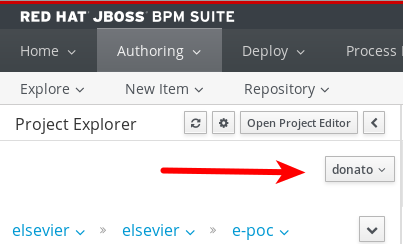
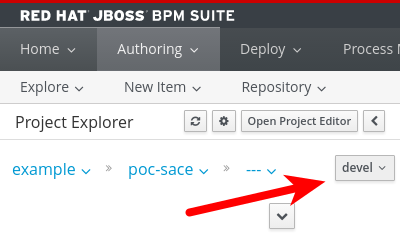
many updates install and conding tips

diff --git a/install.md b/install.md
@@ -8,10 +8,36 @@ Launch:
 
     $ java -jar jboss-brms-6.3.0.GA-installer.jar
     
+### Installing on EAP 7
+
+- Download the deployable for EAP7
+- extract it
+- copy the content to the EAP7 home
+- add the users
+
+        ./add-user.sh -a -u bpmsAdmin -p password
+    
+- add the roles
+- listen all interface:
+
+    - add the interface:
+
+            <interfaces>  
+          
+               <!-- Equivalent of -b 0.0.0.0 -->  
+          
+                  <interface name="any">  
+                       <any-address/>  
+                  </interface>  
+            </interfaces>  
+
+    - add the binding
+        <socket-binding-group name="standard-sockets" default-interface="any" ...
+
+
+
 
 ## Users
-jbpm
-Admin123$
 
 To add a user use the EAP command line:
 
@@ -26,8 +52,10 @@ Roles are defined in the following file:
     ~/EAP-6.4.0/standalone/configuration/application-roles.properties
 
 
-### Example Roles
-    admin=admin,analyst,user,kie-server,rest-all
+### Roles
+
+    bpmsAdmin=admin,developer,analyst,user,manager,kie-server,rest-all,Administrators
+
 
 ### Assigning role to projects
 
@@ -133,21 +161,69 @@ Here some basic information to cluster the kie-server:
 
 
 # Problems 
-## the workbench does not load
+## Cannot login in Business Central (workbench)
 
-http://stackoverflow.com/questions/137212/how-to-solve-performance-problem-with-java-securerandom
+Create a new file `/standalone/deployments/business-central.war/WEB-INF/classes/ErraiService.properties` with the following content:
+
+    errai.bus.enable_sse_support=false
 
 add in `standalone.conf` the following line:
 
     JAVA_OPTS="$JAVA_OPTS -Djava.security.egd=file:/dev/./urandom"
 
+If the problem persist, try to disable the workstation antivirus.
+
+Reference:
+
+[https://access.redhat.com/solutions/1183473]()
+
+## How to access maven repository?
+
+Add username/password in `~/.m2/settings.xml`
+
+    <server>
+      <id>guvnor-m2-repo</id>
+      <username>admin</username>
+      <password>admin</password>
+      <configuration>
+        <wagonProvider>httpclient</wagonProvider>
+        <httpConfiguration>
+          <all>
+            <usePreemptive>true</usePreemptive>
+          </all>
+        </httpConfiguration>
+      </configuration>
+    </server>
+    
+Reference:
+[https://access.redhat.com/solutions/703423]()
+
+## Internal git ssh
+
+to connect to an external ssh?
+
+    org.uberfire.nio.git.ssh.cert.dir 
+
+default working dir 
+
+then .security
+
+there sha_id?
+
+Configure the passphrase
+
+    org.uberfire.nio.git.ssh.passphrase
 
 ## Internal git is not accessible
 
 Look for the <system-properties> tag and add the following:
 
-    <property name="org.uberfire.nio.git.daemon.host" value="yourserverdomain"/>
     <property name="org.uberfire.nio.git.ssh.host" value="yourserverdomain"/>
+
+Not sure if the following is useful:
+
+    <property name="org.uberfire.nio.git.daemon.host" value="yourserverdomain"/>
+
 
 ## Internal git offer ssh-dss
 Issue https://issues.jboss.org/browse/RHBRMS-243

diff --git a/git_workflow.md b/git_workflow.md
@@ -9,7 +9,7 @@ There are two options:
 1. each developers has his own instance of Business Central in his/her own workstation;
 2. the Business Central is shared on a development server, but each developer has to work on his/her own branch. In this case, developers have to pay attention to stay on their own branch, when they perform any change.
 
-The Business Central (BC) repository has the role of a sandbox, where many commits are meaningless. It's worth mentioning that the BC performs a git commit every time a developer saves an artefact.
+The Business Central (BC) repository has the role of a sandbox, where many commits are meaningless. It's worth mentioning that the BC performs a git commit every time a developer saves an artefact. Conversely, a developer should __commit__ a group of artefacts when they are consistent, usually when he implement a new feature, he can build the code and has performed a first test.
 
 The team shares the consolidated work in a shared git repository, let's call it "team" (_blessed repository_ Ref. [Distributed Git - Distributed Workflows](https://git-scm.com/book/en/v2/Distributed-Git-Distributed-Workflows)).
 
@@ -134,11 +134,11 @@ Other developer should create the repository in their Business Central environme
     $ git push origin <dev2_branch>
     ```
 
-    If you find problem pushing, you can try the *force* option: `git push --all -f`
+    If you find problem pushing, you can try the *force* option: `git push -f origin <dev2_branch>`
 
 5. Restart the BPMS in order to reload the new repository structure
 
-6. In the BC select your own branch ("donato" in the picture), this operation will ensure that your next changes will stored on the your branch.
+6. In the BC select your own branch ("devel" in the picture), this operation will ensure that your next changes will stored on the your branch.
 
     ![Repository Editor](./imgs/git_workflow_02.png)
 

diff --git a/user-interface.md b/user-interface.md
@@ -1,7 +1,49 @@
-# Form
+# Forms
 
 The form MUST match the variable name of the process
 
-```
-test
-```
+
+## Select
+
+Example of `range value`:
+
+    {aaa,aaa;bbb,bbb}
+
+## Data provider
+
+[https://access.redhat.com/solutions/1487113]()
+
+## Attachment
+
+To make your process manage documents you have to define your process variables as usual using the Custom Type `org.jbpm.document.Document`. Each variable defined as Document will be shown on the form as a FILE input.
+    
+Authoring view and edit the `kie-deployment-descriptor.xml` file located on `<yourproject>/src/main/resources/META-INF` and add your Document Marshalling Strategy to the `<marshalling-strategies>` list like this:
+
+    <marshalling-strategies>
+        <marshalling-strategy>
+          <resolver>reflection</resolver>
+          <identifier>
+            org.jbpm.document.marshalling.DocumentMarshallingStrategy
+          </identifier>
+        </marshalling-strategy>
+    </marshalling-strategies>
+
+[https://docs.jboss.org/jbpm/release/6.5.0.Final/jbpm-docs/html/ch13.html#sect-formmodeler-attachments]()
+
+### Dependencies
+
+Add the dependencies to the project:
+
+    <dependency>
+    	<groupId>org.jbpm</groupId>
+    	<artifactId>jbpm-document</artifactId>
+    	<scope>provided</scope>
+    </dependency>
+
+**REMINDER:** Add the `jbpm-document-<release>.jar` to your kieserver libs.
+
+## Articles
+
+[https://www.linkedin.com/pulse/does-bpm-need-head-donato-marrazzo]()
+
+

diff --git a/case_management.md b/case_management.md
@@ -24,30 +24,10 @@ Nevertheless, core engine only supports parallel execution, property should be h
 
 ## Dependencies
 
-Exclusion to avoid dependency check in Business Central
-
-		<dependency>
-			<groupId>org.jbpm</groupId>
-			<artifactId>jbpm-case-mgmt</artifactId>
-			<version>6.5.0.Final-redhat-7</version>
-			<exclusions>
-				<exclusion>
-					<groupId>org.kie</groupId>
-					<artifactId>kie-internal</artifactId>
-				</exclusion>
-				<exclusion>
-					<groupId>org.drools</groupId>
-					<artifactId>drools-core</artifactId>
-				</exclusion>
-			</exclusions>
-		</dependency>
-
-Without exclusion you get the following warning:
-
-    WARN  [org.kie.workbench.common.services.backend.builder.ClassVerifier] (EJB default - 6) Verification of class org.drools.core.builder.conf.impl.JaxbConfigurationImpl failed and will not be available for authoring.
-    Underlying system error is: com/sun/tools/xjc/Options. Please check the necessary external dependencies for this project are configured correctly.
+DO NOT import jbpm-case-mgmt in the pom but copy it in WEB-INF/lib!
 
 ## Coding
+
 ### Trigger adhoc fragment
 
 			CaseMgmtService caseMgmtService = new CaseMgmtUtil(engine);

diff --git a/coding-tips.md b/coding-tips.md
@@ -1,4 +1,9 @@
-# Coding tips
+Coding Tips
+===========
+
+## MVEL
+http://mvel.documentnode.com/
+
 
 ## Variable substitution
 
@@ -11,6 +16,27 @@
 ## On exit
 
     System.out.println(">>> exit: " + kcontext.getNodeInstance().getNodeName());
+
+## Variable Mapping at assignment level
+
+The task assignments are able to perform variable mapping using the MVEL notation.
+
+E.g.:
+
+![mapping](imgs/coding-tips-01.png)
+ 
+## Get/Set variable by code
+
+The following interface provides the full access to the variable:
+
+    org.kie.api.runtime.process.WorkflowProcessInstance
+
+This is a code sample:
+
+	WorkflowProcessInstance processInstance = (WorkflowProcessInstance) runtimeEngine.getKieSession().getProcessInstance(processInstanceId);
+	processInstance.getVariable(name);
+	processInstance.setVariable(name, value);
+
 
 ## Debugging process
 

diff --git a/human_tasks.md b/human_tasks.md
@@ -1,4 +1,5 @@
-# Human Tasks
+Human Tasks
+===========
 
 Syntax to add variables in **subject** or **description**
 
@@ -17,6 +18,8 @@ Roles are defined in the following file:
 
 **TODO**
 userinfo.conf ....
+
+
 
 ## Special Roles
 
@@ -37,4 +40,6 @@ the first task that is completed returns `ActorId` data output that represents t
 [https://github.com/droolsjbpm/jbpm/blob/6.5.x/jbpm-human-task/jbpm-human-task-workitems/src/main/java/org/jbpm/services/task/wih/AbstractHTWorkItemHandler.java]()
 
 It cannot implemented to a couple of issues.
+
+
 

diff --git a/others.md b/others.md
@@ -114,9 +114,9 @@ Add in the classpath `logback.xml` (or `logback-test.xml`):
 
 ### How to increase heap size
 
-Edit `bin/standalone.sh` add:
+Edit `bin/standalone.conf` and change:
 
-    JAVA_OPTS="-Xmx2048m"
+    JAVA_OPTS="-Xms2303m -Xmx4303m -XX:MetaspaceSize=96M -XX:MaxMetaspaceSize=1024m -Djava.net.preferIPv4Stack=true"
 
 
 ## Internal repositories
@@ -125,7 +125,7 @@ stored where eap is launched:
 
     $EAP_HOME/bin/
 
-- git repo `.niogit`
+- git repo `. `
 - maven `repositories/kie`
 - index `.index`
 - h2 database
